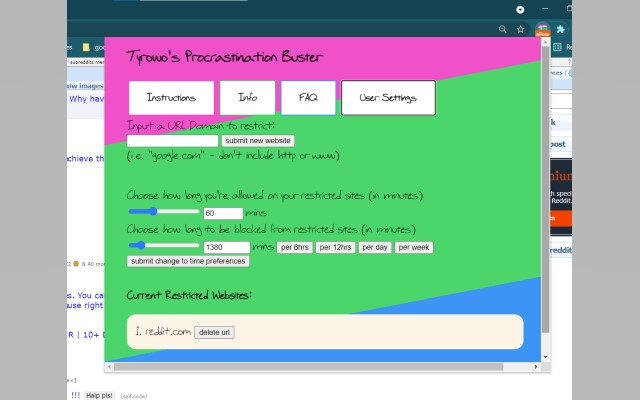
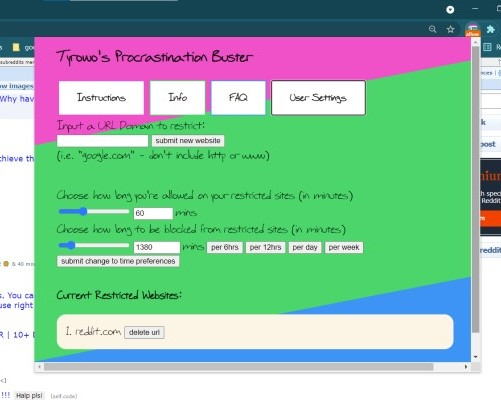
addPics - added pictures to project descriptions

diff --git a/lib/data/project_descriptions.dart b/lib/data/project_descriptions.dart
@@ -1,4 +1,5 @@
 import 'package:flutter/material.dart';
+import 'package:tyro_work/helper/resizeable_image.dart';
 import 'package:url_launcher/url_launcher.dart';
 
 class ProBusterProjectDescription extends StatelessWidget {
@@ -30,6 +31,11 @@ class ProBusterProjectDescription extends StatelessWidget {
                 '(You may be required to log in to a Google account to see the page.)')
           ],
         ),
+        const Text(''),
+        const ResizeableImage(
+            asset: 'assets/pics/probuster.jpg',
+            label:
+                'Screenshot of my Chrome Extension called The Procrastination Buster'),
         const Text(''),
         const Text(
             "After publishing my website I wanted to create something that was more Javascript oriented."),
@@ -120,6 +126,21 @@ class EquidistantProjectDescription extends StatelessWidget {
           ],
         ),
         const Text(''),
+        const Wrap(
+          crossAxisAlignment: WrapCrossAlignment.center,
+          children: [
+            ResizeableImage(
+                asset: 'assets/pics/eqScreenshot01.png',
+                label: 'Homepage of my app called Equidistant'),
+            ResizeableImage(
+                asset: 'assets/pics/eqScreenshot02.png',
+                label: 'Privacy mode screen of the app Equidistant'),
+            ResizeableImage(
+                asset: 'assets/pics/eqScreenshot03.png',
+                label: 'Results screen of the app Equidistant'),
+          ],
+        ),
+        const Text(''),
         const Text(
             "Following my work on the Procrastination Buster I was confident that my development skills had reached a point where I felt ready to apply for work."),
         const Text(
@@ -193,14 +214,21 @@ class Web1Description extends StatelessWidget {
 
   @override
   Widget build(BuildContext context) {
-    double deviceWidth(BuildContext context) =>
-        MediaQuery.of(context).size.width;
-    double deviceHeight(BuildContext context) =>
-        MediaQuery.of(context).size.height;
     return Column(
       mainAxisAlignment: MainAxisAlignment.start,
       crossAxisAlignment: CrossAxisAlignment.start,
       children: [
+        const Wrap(
+          crossAxisAlignment: WrapCrossAlignment.center,
+          children: [
+            ResizeableImage(
+                asset: 'assets/pics/firstWebsite01.png',
+                label: 'Screenshot of the homepage of my first website'),
+            ResizeableImage(
+                asset: 'assets/pics/firstWebsite02.png',
+                label: 'Screenshot of my first website'),
+          ],
+        ),
         const Text(
             "When I started learning how to code I wasn't sure if I wanted to be more of a front end developer or back end developer."),
         const Text(
@@ -222,7 +250,10 @@ class Web1Description extends StatelessWidget {
         const Text(
             "My font I actually created prior to the website, it was a project where I wanted to use my actual handwriting as a font for use in documents."),
         const Text(
-            "I created it with a web app called calligraphr, and went through tons of iterations creating variations of the lettering that would make it as natural looking as possible."),
+            "I created it with a web app called calligraphr, and went through tons of iterations creating variations of the lettering that would make it as natural looking as possible. In all I created over 116 of these handwritten character sheets."),
+        const ResizeableImage(
+            asset: 'assets/pics/handwritingCharacters.jpg',
+            label: 'A sheet of handwritten characters'),
         const Text(
             "My intent was to have it published as a Google Font, but unfortunately fonts created through Calligraphr are not supported because they don't have the component files."),
         const Text(''),
@@ -279,10 +310,6 @@ class Web2Description extends StatelessWidget {
   @override
   Widget build(BuildContext context) {
     // need device width and height in these to change pic size
-    double deviceWidth(BuildContext context) =>
-        MediaQuery.of(context).size.width;
-    double deviceHeight(BuildContext context) =>
-        MediaQuery.of(context).size.height;
     return Column(
       mainAxisAlignment: MainAxisAlignment.start,
       crossAxisAlignment: CrossAxisAlignment.start,
@@ -291,6 +318,8 @@ class Web2Description extends StatelessWidget {
             "When I decided that I would learn how to use Flutter, it was exciting to have a new framework under my belt that I could apply to updating my portfolio."),
         const Text(
             "Not that I wasn't ... proud of what I was able to accomplish with vanilla html+css+js, but the results also weren't anything I was very excited to show off, either. 😹"),
+        const Text(
+            "As a web-only project, this was also a great opportunity to experiment with Flutter's WASM (web assembly) build option. It doesn't seem totally fleshed out yet but could be even more interesting as it advances in the coming years."),
         const Text(''),
         const Text(
             "Working with Flutter on a second project was an awesome experience, because I was able to pull in a lot of work that I had done on Equidistant, I had researched some of the features I wanted to implement, and I already knew how to deploy my code to web."),
@@ -318,8 +347,8 @@ class Web2Description extends StatelessWidget {
             "Finally, although I don't really mind the bootup time to run Flutter, and have found it to be pretty comparable to webtool created portfolio sites, it's a little excessive for a small page like mine."),
         const Text(''),
         const Text(
-            "For these reasons this will probably be my final web-only Flutter project."),
-        const Text("No surprise, it's an app framework."),
+            "For these reasons this will probably be my final web-only Flutter project, at least until some substantial WASM improvements are made."),
+        const Text("Surprise surprise, Flutter is an app framework."),
         const Text(
             "However, I'm sure the experience with class based web development will be invaluable working with other frameworks in the future, and I'm very happy with the results."),
         const Text(''),
@@ -330,6 +359,17 @@ class Web2Description extends StatelessWidget {
         const Text(
             "I also to experiment with customization, allowing users to be able to toggle off my font if it wasn't readable enough for them, as well as toggle light/dark."),
         const Text(''),
+        const Wrap(
+          crossAxisAlignment: WrapCrossAlignment.center,
+          children: [
+            ResizeableImage(
+                asset: 'assets/pics/lightModeColor.png',
+                label: 'Light mode color palette from snow leopard print'),
+            ResizeableImage(
+                asset: 'assets/pics/darkModeColor.png',
+                label: 'Dark mode color palette from snow leopard print'),
+          ],
+        ),
         const Text(
             "In classic Tyler fashion I wanted to create a really personal feel to this website, and that's where the leopard print theme comes into play."),
         const Text(
@@ -347,21 +387,52 @@ class Web2Description extends StatelessWidget {
         const Text(
             "What a journey that was. I navigated the public transit and arrived just past noon to an empty exhibit. But after a while of looking I discovered the cat asleep by the wall interior, barely visible."),
         const Text(
-            "I snapped some pics of his back, but I knew they were barely useable."),
+            "Any time he shifted positions I snapped some pics of his back, but I knew they were barely useable."),
+        const ResizeableImage(
+            asset: 'assets/pics/cat01waiting.jpg',
+            label: 'Snow leopard from a distance inside a building'),
         const Text(
             "So I waited. I sat outside the snow leopard exhibit until 5 PM, patiently rationing my phone battery life to mitigate my boredom."),
         const Text(
-            "Surely he would leave the interior area to use the bathroom or something? No."),
+            "I thought, 'Surely he would leave the interior area to use the bathroom eventually.' But no."),
         const Text(
             "I learned from a zookeeper that the cat's name was Jimmy G, and at 5 PM when another zookeeper came to bring him his food Jimmy finally woke up."),
         const Text("He ate his food, and began to do laps around his exhibit."),
+        const Wrap(
+          crossAxisAlignment: WrapCrossAlignment.center,
+          children: [
+            ResizeableImage(
+                asset: 'assets/pics/cat03face.jpg',
+                label: 'Snow leopard facing the camera'),
+            ResizeableImage(
+                asset: 'assets/pics/cat04walking.jpg',
+                label: 'Snow leopard walking through his habitat'),
+            ResizeableImage(
+                asset: 'assets/pics/cat05crouching.jpg',
+                label: 'Snow leopard crouched against a wall'),
+          ],
+        ),
         const Text(
             "I ran alongside him, furiously snapping as many pictures as I could in as many poses as I could, with a focus on trying to get a broad view of his side for an optimal look at the print on his side."),
+        const ResizeableImage(
+            asset: 'assets/pics/cat02body.jpg',
+            label: 'Broadside of a snow leopard'),
         const Text(
             "I took pictures until my phone died, watched him until he finished his rounds, and he promptly went back to sleep."),
         const Text(''),
         const Text(
-            "With those pictures I selected the cleanest I could find, cropped them to focus on the print, and used them as a model for Midjourney to base the results of my prompt on."),
+            "When I got home I selected the cleanest pictures I could find of the print, cropped them, and used them as a model for Midjourney to base the results of my prompt on."),
+        const Wrap(
+          crossAxisAlignment: WrapCrossAlignment.center,
+          children: [
+            ResizeableImage(
+                asset: 'assets/pics/training1.jpg',
+                label: 'Cropped body of a snow leopard'),
+            ResizeableImage(
+                asset: 'assets/pics/training2.jpg',
+                label: 'Cropped body of a snow leopard'),
+          ],
+        ),
         const Text(
             "Creating a smooth tiling image was difficult with an inconsistent design, but after generating a hundred images or so, I had 6 perfect images to use for this project."),
         const Text(
@@ -369,14 +440,19 @@ class Web2Description extends StatelessWidget {
         const Text(
             "As modern web design moves towards simple plain backgrounds, I wanted mine to be a little more subtly dynamic and engaging to repeat visitors."),
         const Text(
-            "I think the results speak for themselves. I find it very visually appealing, and found that it served as a great basis for the off-black and off-white color scheme. "),
+            "I think the results speak for themselves. I find it very visually appealing, and it served as a great basis for the off-black and off-white color scheme."),
+        const ResizeableImage(
+            asset: 'assets/4.png', label: 'Tiled snow leopard pattern image'),
 // [color palette references]
         const Text(''),
         const Text(
-            "So shouts out to my model and basis for this website, Jimmy G."),
+            "So here's a quick shoutout to my model and basis for this website, Jimmy G."),
         const Text(
             "Thanks for allowing me the opportunity to ethically source the images myself. "),
         const Text("Hope you're doing well. 💕"),
+        const ResizeableImage(
+            asset: 'assets/pics/cat06posed.jpg',
+            label: 'Snow leopard sitting on a large rock'),
         const Text(''),
         ElevatedButton(
           onPressed: () async {

diff --git a/lib/helper/resizeable_image.dart b/lib/helper/resizeable_image.dart
@@ -20,8 +20,8 @@ class _ResizeableImageState extends State<ResizeableImage> {
     double deviceHeight(BuildContext context) =>
         MediaQuery.of(context).size.height;
     return SizedBox(
-      height: deviceHeight(context) * 0.3,
-      width: deviceWidth(context) * 0.3,
+      height: deviceHeight(context) * 0.25,
+      width: deviceWidth(context) * 0.25,
       child: GestureDetector(
           onTap: () => showPicFullscreen(context),
           child: Image.asset(widget.asset)),
@@ -48,8 +48,8 @@ class _ResizeableImageState extends State<ResizeableImage> {
           child: SizedBox(
             height:
                 // this doesn't work it reds out becaue the .height property is null. can't figure out how to get the image's height and width to compare to the screen width
-                min(deviceHeight(context) * 0.975, picHeight + 75),
-            width: min(deviceWidth(context) * 0.975, picWidth + 75),
+                min(deviceHeight(context) * 0.95, picHeight + 75),
+            width: min(deviceWidth(context) * 0.95, picWidth + 75),
             child: Stack(
               alignment: AlignmentDirectional.topEnd,
               children: <Widget>[
